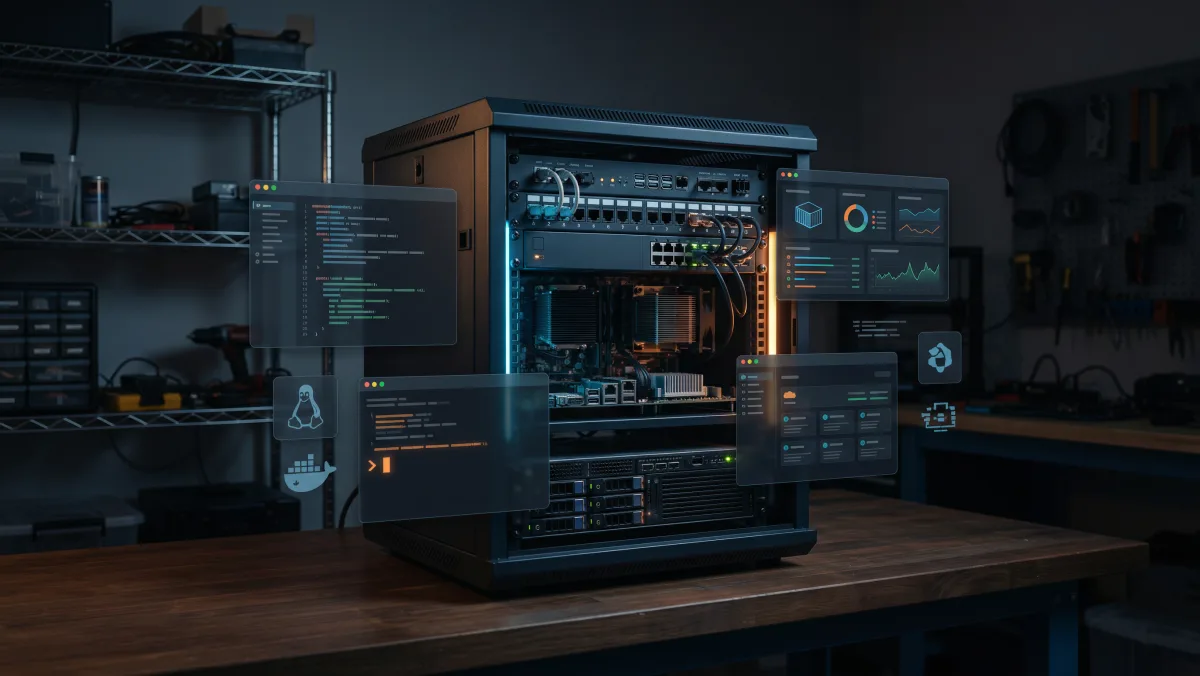
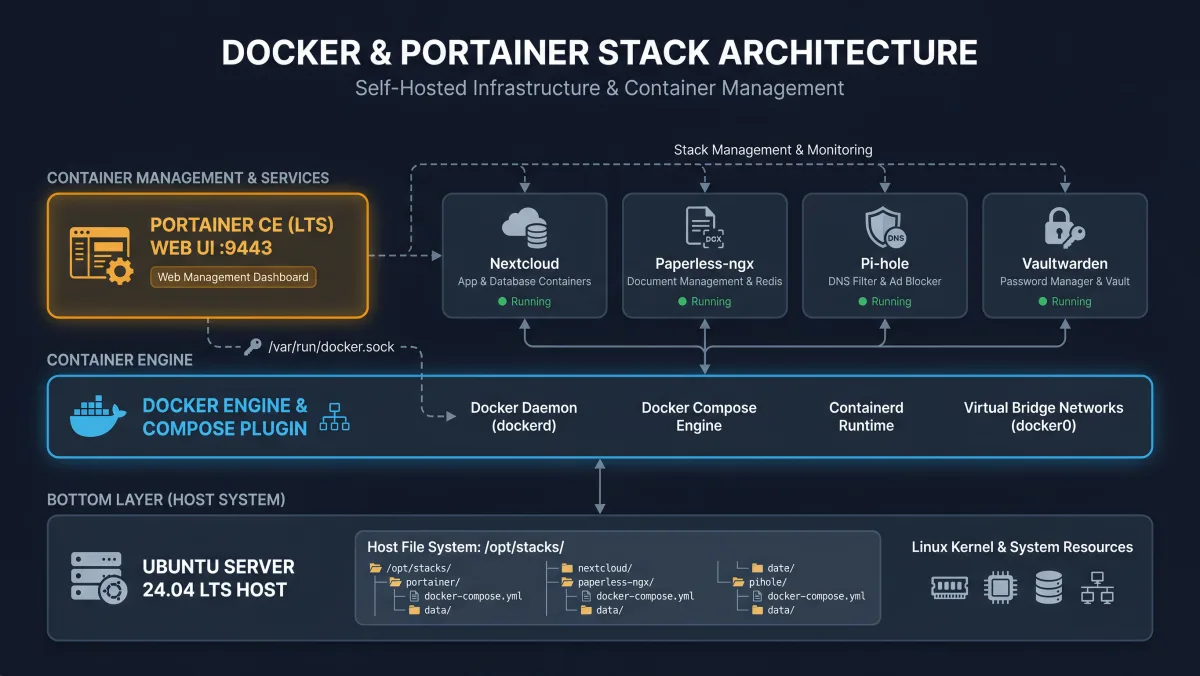
feat: refine ubuntu-server-docker-portainer-setup and add diagrams

diff --git a/src/content/blog/ubuntu-server-docker-portainer-setup.md b/src/content/blog/ubuntu-server-docker-portainer-setup.md
@@ -22,7 +22,9 @@ Lade dir das offizielle Ubuntu Server ISO herunter und bringe es per Ventoy oder
 - **SSH aktivieren** (importiere am besten direkt deinen SSH-Key von GitHub oder hinterlege deinen Public Key).
 
 ### Sicherheits-Grundregel: VPN-only & kein Port-Forwarding!
-Dein Homelab gehört **nicht** direkt ins Internet. Setze keine Portweiterleitungen am Router auf Port 80, 443 oder gar 22. Der Zugang von außen sollte **ausschließlich über ein VPN** erfolgen (z. B. WireGuard auf der OPNsense/Fritz!Box, Tailscale oder Netbird).
+Dein Homelab gehört **nicht** direkt ins Internet. Setze keine Portweiterleitungen am Router auf Port 80, 443 oder gar 22. Der Zugang von außen sollte **ausschließlich über ein VPN** erfolgen (z. B. WireGuard auf der OPNsense/Fritz!Box, Tailscale oder Netbird):
+
+![Server-Hardening und VPN-Only-Architektur](/images/ubuntu-server-docker-portainer-setup-2.webp)
 
 ### SSH absichern & Passwort-Login deaktivieren
 Verbinde dich per SSH mit deinem Server und schalte den unsicheren Passwort-Login ab:
@@ -44,7 +46,7 @@ sudo systemctl restart ssh
 ```
 
 ### Firewall (UFW) konfigurieren
-Standardmäßig blockieren wir jeglichen eingehenden Traffic und erlauben nur SSH sowie die lokalen Ports für Portainer:
+Standardmäßig blockieren wir jeglichen eingehenden Traffic und erlauben nur SSH sowie den lokalen Port für Portainer:
 
 ```bash
 # Standardregeln
@@ -54,7 +56,7 @@ sudo ufw default allow outgoing
 # SSH erlauben
 sudo ufw allow 22/tcp comment 'SSH'
 
-# Docker / Portainer Ports (nur im lokalen Subnetz oder VPN!)
+# Portainer Web-UI (nur im lokalen Subnetz oder VPN erreichbar)
 sudo ufw allow 9443/tcp comment 'Portainer HTTPS'
 
 # Firewall aktivieren
@@ -111,17 +113,19 @@ docker compose version && docker run --rm hello-world
 Wild verstreute Docker-Container auf dem Server führen schnell zu Chaos. Erstelle eine feste Verzeichnisstruktur unter `/opt/stacks/` für alle kommenden Dienste:
 
 ```bash
-sudo mkdir -p /opt/stacks/portainer
+sudo mkdir -p /opt/stacks/portainer/data
 sudo chown -R $USER:$USER /opt/stacks
 ```
 
-Jeder Dienst bekommt dort seinen eigenen Unterordner mit einer dedizierten `docker-compose.yml` und einem `data`-Verzeichnis für persistente Volumes.
+Jeder Dienst bekommt dort seinen eigenen Unterordner mit einer dedizierten `docker-compose.yml` und einem `data`-Verzeichnis für persistente Volumes:
+
+![Docker und Portainer Stack-Architektur](/images/ubuntu-server-docker-portainer-setup-3.webp)
 
 ---
 
-## 4. Portainer CE via Docker Compose starten
+## 4. Portainer CE (LTS) via Docker Compose starten
 
-Portainer bietet ein schlankes Web-Interface, um Container, Images, Netzwerke und Volumes im Blick zu behalten, Logs zu prüfen und Stacks direkt per Compose-Code zu verwalten.
+Portainer bietet ein schlankes Web-Interface, um Container, Images, Netzwerke und Volumes im Blick zu behalten, Logs zu prüfen und Stacks direkt per Compose-Code zu verwalten. Für den produktiven Homelab-Betrieb empfiehlt sich ausdrücklich das **LTS-Image** (`portainer/portainer-ce:lts`), um unerwartete Breaking Changes zu vermeiden.
 
 Wechsle in das Verzeichnis und erstelle die Konfiguration:
 ```bash
@@ -134,7 +138,7 @@ Füge folgenden Inhalt ein:
 ```yaml
 services:
   portainer:
-    image: portainer/portainer-ce:latest
+    image: portainer/portainer-ce:lts
     container_name: portainer
     restart: unless-stopped
     security_opt:
@@ -158,7 +162,7 @@ Rufe nun im Browser über dein lokales Netz oder VPN die Adresse auf:
 
 ---
 
-## 5. Wie geht es weiter? (Interne Verweise)
+## 5. Wie geht es weiter?
 
 Dein Fundament steht! Jetzt kannst du tiefer in das Docker-Management einsteigen oder deinen Server überwachen:
 - **Docker-Manager vergleichen:** Falls du neben Portainer auch schlankere Alternativen suchst, lies meinen [Docker-Manager-Vergleich (Portainer vs. Dockge vs. Komodo)](/blog/docker-manager-vergleich-portainer-dockge-komodo).
@@ -169,7 +173,7 @@ Dein Fundament steht! Jetzt kannst du tiefer in das Docker-Management einsteigen
 
 ## Praxis-Empfehlung & One-Liner für die Shell
 
-Hier ist das schlüsselfertige Setup-Skript, das das System aktualisiert, Docker installiert, die Verzeichnisstruktur anlegt und Portainer startet:
+Hier ist das schlüsselfertige Setup-Skript, das das System aktualisiert, Docker installiert, die Verzeichnisstruktur anlegt und Portainer CE (LTS) startet:
 
 ```bash
 # Update & Docker-Installation
@@ -184,12 +188,13 @@ sudo apt update && sudo apt install -y docker-ce docker-ce-cli containerd.io doc
 # Rechte anpassen
 sudo usermod -aG docker $USER
 
-# Portainer Stack anlegen & starten
-mkdir -p /opt/stacks/portainer/data
+# Portainer LTS Stack anlegen & starten
+sudo mkdir -p /opt/stacks/portainer/data
+sudo chown -R $USER:$USER /opt/stacks
 cat << 'STACK' > /opt/stacks/portainer/docker-compose.yml
 services:
   portainer:
-    image: portainer/portainer-ce:latest
+    image: portainer/portainer-ce:lts
     container_name: portainer
     restart: unless-stopped
     security_opt:
@@ -201,6 +206,6 @@ services:
       - /opt/stacks/portainer/data:/data
 STACK
 
-cd /opt/stacks/portainer && docker compose up -d
+cd /opt/stacks/portainer && sudo docker compose up -d
 echo "=== Portainer läuft unter https://$(hostname -I | awk '{print $1}'):9443 ==="
 ```
